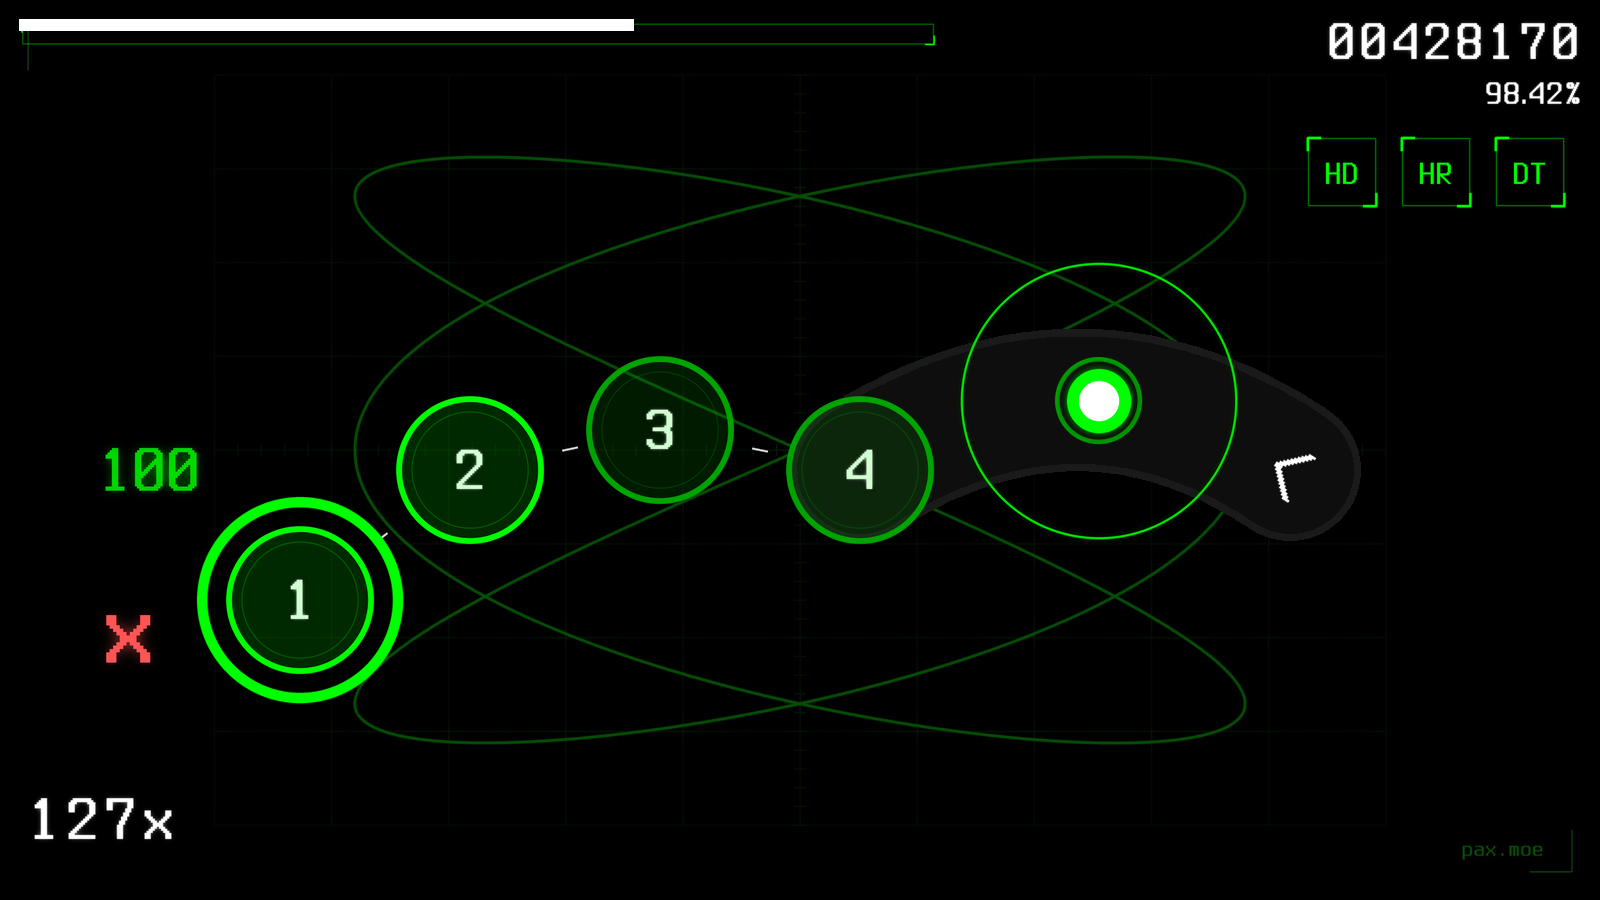
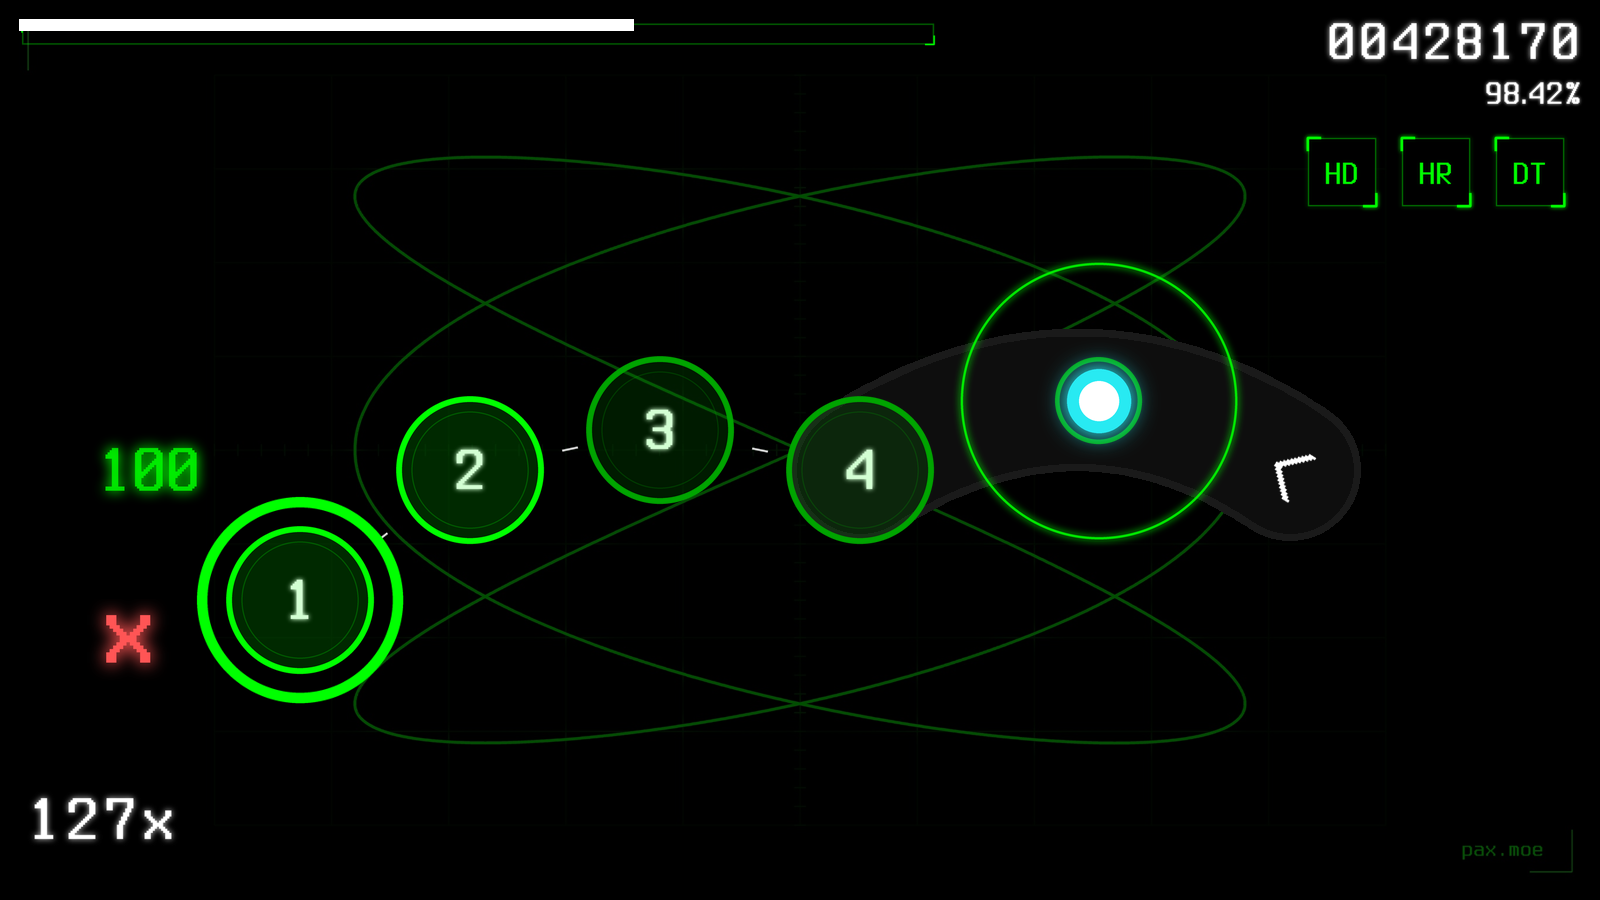
Cyan cursor that blends into the trail; premultiplied glow removes dark halos

diff --git a/gen.py b/gen.py
@@ -25,6 +25,7 @@ GRN = (0, 255, 0)
 GRN2 = (0, 204, 0)          # hyprland gradient end
 DARK = (0, 34, 0)           # hyprland inactive border
 RED = (255, 85, 85)         # quickshell bar warning
+CYAN = (40, 234, 242)       # cursor; matches the Beafowl trail so the two blend
 WHITE = (255, 255, 255)
 
 
@@ -89,7 +90,9 @@ class C:
 
     def glow(self, radius, strength=1.0):
         """Blur a copy of the current layer underneath it, like text-shadow."""
-        blur = self.im.filter(ImageFilter.GaussianBlur(self.p(radius)))
+        # Blur premultiplied (RGBa): transparent pixels are stored as black, and a
+        # straight RGBA blur mixes that black into the edge as a dark fringe.
+        blur = self.im.convert("RGBa").filter(ImageFilter.GaussianBlur(self.p(radius))).convert("RGBA")
         if strength != 1.0:
             a = blur.getchannel("A").point(lambda v: min(255, round(v * strength)))
             blur.putalpha(a)
@@ -195,19 +198,19 @@ def judgements():
 
 
 def cursor(src=None):
-    """A solid dot: white core, phosphor green band, short glow. The trail comes
-    from --assets when that skin has one (recoloured green: blue := red keeps
-    white white; no @2x is written so none can override it), otherwise none."""
+    """A solid dot: white core, cyan band, wide soft glow that fades into the
+    trail. Cyan so the cursor stands apart from the green circles. The trail
+    comes from --assets when that skin has one, used as is (no @2x is written
+    so none can override it), otherwise none."""
     trail = src / "cursortrail.png" if src else None
     if trail and trail.exists():
-        r, g, _, a = Image.open(trail).convert("RGBA").split()
-        Image.merge("RGBA", (r, g, r, a)).save(OUT / "cursortrail.png")
+        shutil.copy(trail, OUT / "cursortrail.png")
     else:
         blank("cursortrail")
-    c = C(56, 56)
-    c.disc(28, 28, 16, rgba(GRN))
-    c.glow(3, 1.6)
-    c.disc(28, 28, 10, rgba(WHITE))
+    c = C(72, 72)
+    c.disc(36, 36, 16, rgba(CYAN))
+    c.glow(6, 1.3)
+    c.disc(36, 36, 10, rgba(WHITE))
     c.save("cursor")
 
 

diff --git a/README.md b/README.md
@@ -26,7 +26,7 @@ This builds the visuals only, with no sounds, so osu! uses its default sounds. T
 python3 gen.py out/P1 --assets "Skins/Some Skin" --hitsounds "Skins/Other Skin" --osk P1.osk
 ```
 
-* `--assets` takes every sound and the cursor trail (recoloured green) from that skin.
+* `--assets` takes every sound and the cursor trail from that skin.
 * `--hitsounds` replaces only the gameplay sounds (hit, slider, nightcore, combobreak) with another skin's set. Any matching sound from `--assets` is removed first, in every extension and numbering, so two sets never mix.
 * `--osk` also packs the finished skin into an `.osk` (a zip of the skin folder).
 
